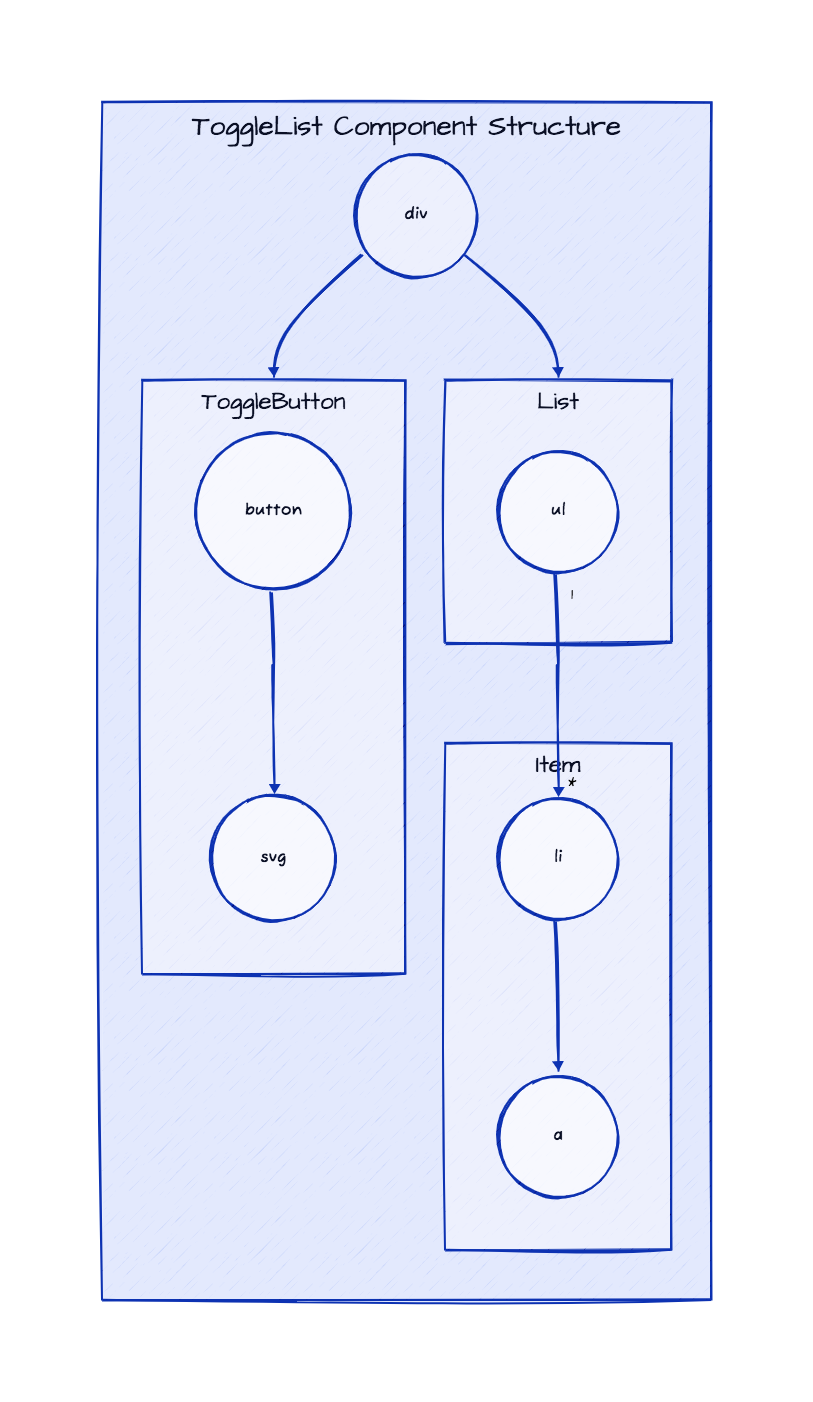
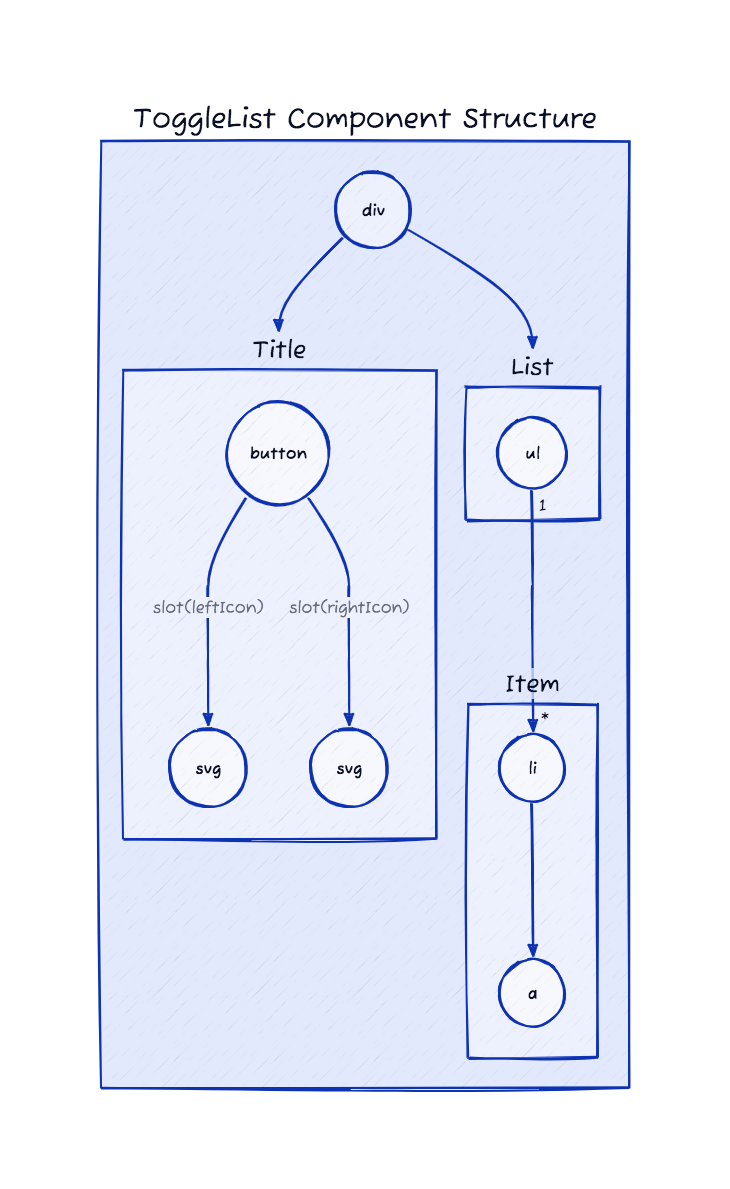
docs(essentials/list): update THEMING.md and the component diagram

Changed region(s): [[0.1205, 0.0622, 0.9041, 0.9336]]

diff --git a/packages/essentials/src/lib/components/list/THEMING.md b/packages/essentials/src/lib/components/list/THEMING.md
@@ -4,8 +4,8 @@ To simplify custom styles on the component we used the built-in solution for com
 
 The two component properties `styles` and `class` are the ones allowing you to customize the component appearence.
 
-- `styles` is a JS object with the CSS variable name to override (without `--` prefix) as key and the value set to the allowed one for that CSS variable. This approach helps when you wish to tune few styles for the component.
-- `class`: is a global CSS class name where the class content has the CSS variables to override. Using `class` is more suitable when the goal is to create personal versions(themes) for the component, so sevaral props are override;
+- `styles` is a JS object with the CSS variable name to override (**without** `--` as prefix) as key and the value set to the allowed one for that CSS variable. This approach helps when you wish to tune few styles for the component.
+- `class`: is a global CSS class name where the class content has the CSS variables (**with** `--` as prefix) to override. Using `class` is more suitable if the goal is creating personal variants (themes) for the component.
 
 > Refer to the [Design Rules] document to better understand how the component has been designed and how to customize the styles.
 
@@ -20,20 +20,58 @@ Below is the DOM Element Structure for the `ToggleList` component.
 
 ![ToggleList](./assets/images/component_structure.png "ToggleList Component - DOM Element Structure")
 
-## Info Mapping Table
+## DOM - CSS Variables Mapping Table
 
-The DOM Element Structure above can be mapped to the following table going through the structure from top to bottom and from left to right.
+The DOM Element Structure above can be mapped to the following table where each component is mapped to the prefix used to identify the CSS variables afftecting it.
 
-| Component    | HTML Elem | CSS Class Name      | CSS Variables Prefix |
-| :----------- | --------: | ------------------: | -------------------: |
-|              | `div`     | `sn-e-c-togglelist` |                      |
-| ToggleButton |           | `btn`               | `btn`                |
-| List         |           | `list`              | `list`               |
-| Item         |           | `list__item`        | `item`               |
+| Component | CSS Variables Prefix |
+| :-------- | -------------------: |
+| Title     | `title`              |
+| List      | `list`               |
+| Item      | `item`               |
 
-## CSS Variables
+### Title
 
-The CSS variables are defined in the [variables.css](../../styles/components/list/variables.css) file.
+| Name                   | Default     |            |
+| :--------------------- | ----------: | :--------: |
+| `title-py`             | 0           |            |
+| `title-px`             | 0           |            |
+| `title-icon-gap`       | 0.25rem     |            |
+| `title-color`          | #030507     | <div style="background-color:#030507; width:15px; height: 15px" /> |
+| `title-color-hover`    | #030507     | <div style="background-color:#030507; width:15px; height: 15px" /> |
+| `title-bg-color`       | transparent |            |
+| `title-bg-color-hover` | transparent |            |
+| `title-font-size`      | 1rem        |            |
+| `title-font-weight`    | 500         |            |
+| `title-line-height`    | 1.5         |            |
+| `title-letter-spacing` | 0.025em     |            |
+
+### List
+
+| Name                | Default     |            |
+| :------------------ | ----------: | :--------: |
+| `list-mt`           | 0.5rem      |            |
+| `list-mt-lg`        | 1rem        |            |
+| `list-py`           | 0.25rem     |            |
+| `list-px`           | 0           |            |
+| `list-border-width` | 1px         |            |
+| `list-border-style` | solid       |            |
+| `list-border-color` | #dee2e6     | <div style="background-color:#dee2e6; width:15px; height: 15px" /> |
+| `list-bg-color`     | transparent |            |
+
+### Item
+
+| Name                     | Default     |            |
+| :----------------------- | ----------: | :--------: |
+| `item-pl`                | 1rem        |            |
+| `item-color`             | #868e96     | <div style="background-color:#868e96; width:15px; height: 15px" /> |
+| `item-color-hover`       | #495057     | <div style="background-color:#495057; width:15px; height: 15px" /> |
+| `item-font-weight`       | 400         |            |
+| `item-font-size`         | 1rem        |            |
+| `item-line-height`       | 1.5         |            |
+| `item-letter-spacing`    | 0em         |            |
+| `item-icon-gap`          | 0.5rem      |            |
+| `indicator-color-active` | #495057     | <div style="background-color:#495057; width:15px; height: 15px" /> |
 
 ## Examples
 
@@ -54,10 +92,10 @@ The CSS variables are defined in the [variables.css](../../styles/components/lis
    ];
 
    const customStyles = {
-      'btn-color': '#365314',
-      'btn-color-hover': '#365314',
-      'btn-bg-color': '#bef264',
-      'btn-bg-color-hover': '#a3e635',
+      'title-color': '#365314',
+      'title-color-hover': '#365314',
+      'title-bg-color': '#bef264',
+      'title-bg-color-hover': '#a3e635',
       'item-border-width': '2px',
       'item-border-style': 'dashed',
       'item-border-color': '#bef264',
@@ -75,10 +113,10 @@ The CSS variables are defined in the [variables.css](../../styles/components/lis
 ```css
 /* app.css */
 .my-togglelist {
-  --btn-color: #365314;
-  --btn-color-hover: #365314;
-  --btn-bg-color: #bef264;
-  --btn-bg-color-hover: #a3e635;
+  --title-color: #fdf4ff;
+  --title-color-hover: #365314;
+  --title-bg-color: #701a75;
+  --title-bg-color-hover: #a3e635;
   --item-border-width: 2px;
   --item-border-style: dashed;
   --item-border-color: #bef264;
